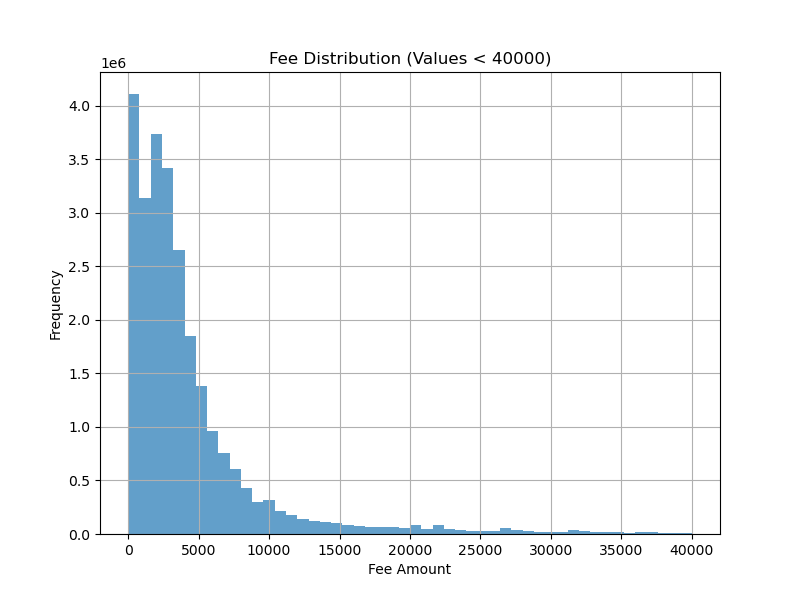
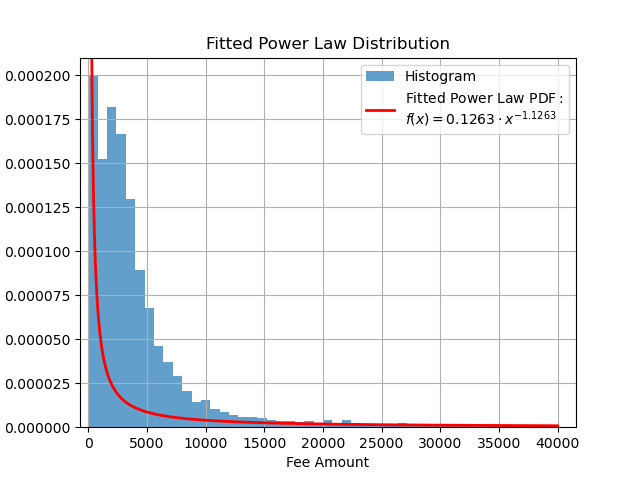
use z-score normalization

diff --git a/data/get_fee.py b/data/get_fee.py
@@ -61,25 +61,52 @@ def plot_fee_distribution():
     plt.grid(True)
     plt.show()
 
-
-def fit_fee_distribution():
+def transform_fee_distribution():
+    # * mean: 7167.122512974324, std: 38358.98737426391
     fee_data_file = os.path.join(DATA_FOLDER, 'fee.npy')
     fee_data = np.load(fee_data_file)
-    fee_data_filtered = fee_data[fee_data < 40000]
+    mean_value = np.mean(fee_data)
+    std_deviation = np.std(fee_data)
+    normalized_data = (fee_data - mean_value) / std_deviation
+    normalized_data = normalized_data[normalized_data <= 10]
+    print(f'mean: {mean_value}, std: {std_deviation}')
+    # normalized_data = np.log1p(fee_data)
 
-    params = expon.fit(fee_data)
-    print(params)
+    plt.hist(normalized_data, bins=50, alpha=0.7, density=True)
+    plt.xlabel('Fee Amount')
+    plt.ylabel('Frequency')
+    plt.title('Fee Distribution (Values)')
+    plt.grid(True)
+    plt.show()
 
-    x = np.linspace(0, 40000, 100000)
-    fitted_pdf = expon.pdf(x, *params)
 
+def fit_fee_distribution():
+    # * f(x) = a * x ** (-k), x >= x_min
+    # * f(x) = 0.12628989798860135 * x ^ (-1.1262898979886014), x >= 1.0
+    fee_data_file = os.path.join(DATA_FOLDER, 'fee.npy')
+    fee_data = np.load(fee_data_file)
+    fee_data_filtered = fee_data[fee_data > 0]
+
+    # * fit the data to power law distribution
+    # * maximum likelihood estimation
+    fee_min = np.min(fee_data_filtered)
+    k = len(fee_data_filtered) / np.sum(np.log(fee_data_filtered / fee_min)) + 1
+    a = (k - 1)/ (fee_min ** (1 - k))
+    print(f'k: {k}, a: {a}, fee_min: {fee_min}, f(x) = {a} * x ^ (-{k})')
+    legend_label = r'$\mathrm{Fitted\ Power\ Law\ PDF:}$' + '\n' + r'$f(x) = %.4f \cdot x^{%.4f}$' % (a, -k)
+
+    # * plot the fitted distribution
+    threshold = 40000
+    fee_data_filtered = fee_data_filtered[fee_data_filtered < threshold]
     plt.hist(fee_data_filtered, bins=50, alpha=0.7, density=True, label='Histogram')
 
-    plt.plot(x, fitted_pdf, 'r-', lw=2, label='Fitted Exponential PDF')
+    x = np.linspace(fee_min, threshold, 1000)
+    fitted_pdf = a * x ** (-k)
+    plt.plot(x, fitted_pdf, 'r-', lw=2, label=legend_label)
 
     plt.xlabel('Fee Amount')
     plt.ylabel('Probability Density')
-    plt.title('Fitted Exponential Distribution')
+    plt.title('Fitted Power Law Distribution')
     plt.legend()
     plt.grid(True)
     plt.show()
@@ -89,17 +116,5 @@ if __name__ == '__main__':
     # get_fee_each_month()
     # get_fee()
     # plot_fee_distribution()
+    transform_fee_distribution()
     # fit_fee_distribution()
-    fee_data_file = os.path.join(DATA_FOLDER, 'fee.npy')
-    fee_data = np.load(fee_data_file)
-    fee_data_filtered = np.log(fee_data[fee_data > 0])
-    mean_value = np.mean(fee_data_filtered)
-    std_deviation = np.std(fee_data_filtered)
-    normalized_data = (fee_data_filtered - mean_value) / std_deviation
-
-    plt.hist(normalized_data, bins=50, alpha=0.7, density=True)
-    plt.xlabel('Fee Amount')
-    plt.ylabel('Frequency')
-    plt.title('Fee Distribution (Values)')
-    plt.grid(True)
-    plt.show()

diff --git a/scripts/train_ppo.py b/scripts/train_ppo.py
@@ -3,9 +3,8 @@ import numpy as np
 import torch
 from envs.DAGEnv import DAGEnv
 from agents.ppo import PPO
-from utils.utils import fix_seed
+from utils.utils import fix_seed, log, normize, unormize
 from tqdm import tqdm
-from utils.utils import log
 from easydict import EasyDict as edict
 import csv
 
@@ -27,6 +26,7 @@ class Trainer(object):
 
     def training(self):
         state = self.env.reset()
+        state = normize(state, self.env.state_mean, self.env.state_std)
         reward_list = []
         sw_list = []
 
@@ -42,6 +42,9 @@ class Trainer(object):
             for i in range(len(state)):
                 action[i] = self.agent.select_action(state[i])
 
+            state = unormize(state, self.env.state_mean, self.env.state_std)
+            action = action * state
+
             next_state, reward, _, info = self.env.step(action)
             self.agent.buffer.rewards.extend(reward)
 
@@ -50,7 +53,7 @@ class Trainer(object):
                     writer = csv.writer(csvfile)
                     writer.writerow([int(step), s, a, a/s, r, p, self.env.num_miners])
             
-            state = next_state
+            state = normize(next_state, self.env.state_mean, self.env.state_std)
 
             if step % self.cfgs.train.update_freq == 0:
                 # * update models
@@ -61,10 +64,13 @@ class Trainer(object):
                 action = np.zeros_like(state)
 
                 for i in range(len(state)):
-                    action[i] = self.agent.select_action_test(state[i]) # ? no exploration in testing?
+                    action[i] = self.agent.select_action_without_exploration(state[i]) # ? no exploration in testing?
+
+                state = unormize(state, self.env.state_mean, self.env.state_std)
+                action = action * state
 
                 next_state, reward, _, info = self.env.step(action)
-                state = next_state
+                state = normize(next_state, self.env.state_mean, self.env.state_std)
 
                 # * print network gradient
                 log('Print network gradient...')

diff --git a/agents/ppo.py b/agents/ppo.py
@@ -9,14 +9,14 @@ from utils.utils import log
 class Actor(nn.Module):
     def __init__(self, state_dim, action_dim, std_init):
         super(Actor, self).__init__()
-        # ? Need non-linear transformation for input?
+        # ? Need non-linear transformation for input or not
         self.net = nn.Sequential(
             nn.Linear(state_dim, 64),
             nn.ReLU(),
             nn.Linear(64, 64),
             nn.ReLU(),
             nn.Linear(64, action_dim),
-            nn.Softplus(),
+            nn.Sigmoid(),
         )
         self.std = std_init
 
@@ -27,7 +27,7 @@ class Actor(nn.Module):
         log_prob = dist.log_prob(a)
         return a, log_prob
 
-    def act(self, s):
+    def act_without_exploration(self, s):
         return self.net(s)
 
     def evaluate(self, s, a):
@@ -87,17 +87,17 @@ class PPO(object):
         self.buffer.state_values.append(sv)
         return a.cpu().data.numpy().flatten()
 
-    def select_action_test(self, state):
+    def select_action_without_exploration(self, state):
         # ! This function is only used for testing
         # ! No exploration
         state = torch.FloatTensor(state.reshape(1, -1)).to(self.device)
         with torch.no_grad():
-            a = self.actor.act(state)
+            a = self.actor.act_without_exploration(state)
         return a.cpu().data.numpy().flatten()
 
     def update(self):
         rewards = torch.tensor(self.buffer.rewards, dtype=torch.float32).to(self.device)
-        rewards = (rewards - rewards.mean()) / (rewards.std() + 1e-7)
+        rewards = (rewards - rewards.mean()) / (rewards.std() + 1e-7) # ? normalize rewards or not
         rewards = rewards.reshape(-1, 1)
         old_states = torch.stack(self.buffer.states, dim=0).detach().to(self.device)
         old_actions = torch.stack(self.buffer.actions, dim=0).detach().to(self.device)

diff --git a/run.py b/run.py
@@ -33,8 +33,7 @@ if __name__ == '__main__':
     shutil.copy(BASE_CONFIGS_PATH, cfgs.results_path)
     shutil.copy(args.cfg, cfgs.results_path)
     for subdir in cfgs.results_subdirs:
-         for key, dir_path in subdir.items():
-            os.makedirs(dir_path, exist_ok=True)
+        os.makedirs(subdir, exist_ok=True)
 
     if args.mode == 'train':
         if args.method == 'DDPG':

diff --git a/envs/DAGEnv.py b/envs/DAGEnv.py
@@ -43,6 +43,8 @@ class DAGEnv(gym.Env):
             low=0, high=np.inf, shape=(max_agents_num,), dtype=np.float32)
 
         self.fee_list = np.load(fee_data_path)
+        self.state_mean = np.mean(self.fee_list)
+        self.state_std = np.std(self.fee_list)
 
     def f(self, p):
         assert np.all(p >= 0 and p <= 1)

diff --git a/utils/utils.py b/utils/utils.py
@@ -25,5 +25,13 @@ def log(*args):
     print(colored_msg, *args)
 
 
+def normize(x, mean, std):
+    return (x - mean) / std
+
+
+def unormize(x, mean, std):
+    return x * std + mean
+
+
 if __name__ == '__main__':
     log('hello world')
